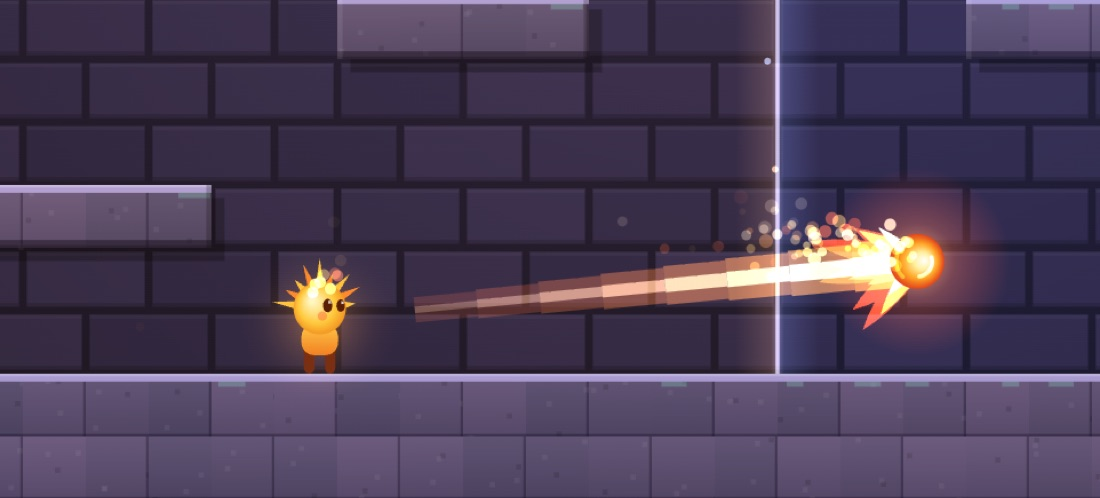
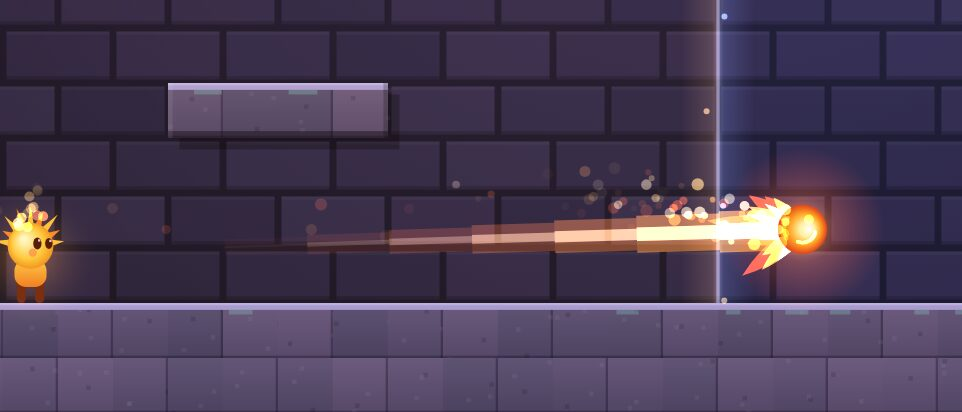
Dodgeball docs: latency re-measured at 36 px/tick on the new court (0, 20, 40 ms match local; 75 ms loses up to 3 ticks near the net, windMax 12 proposed); fresh screenshots, including both screens mid-aim online

diff --git a/docs/dodge-latency.md b/docs/dodge-latency.md
@@ -8,6 +8,56 @@ Branches: `dodge-latency-study` (from `low-gravity`), `dodge-fix-a-ballspeed`, `
 (both from the study branch), `dodge-fix-c-windup` (from `low-gravity`, which has the study).
 **Decision: fix C ships** (`dodge-fix-c-windup`). See "Fix C" and "Decision" below.
 
+## Nov 2026: the new court and a 36 px/tick ball
+
+The court was narrowed to 768 px with one platform per side, and the ball sped up from 24 to
+36 px/tick (HANDOFF section 9, `tools/check-dodge.js` section 3). The study below used the
+old court and ball; its spots now mean: `back wall` both at their back walls (19-tick flight),
+`mid (spawn)` thrower on the spawn behind the platform (17), `near net` thrower at the veil and
+defender at the back wall (9), `spawn to spawn` (15). Re-run with
+`node tools/dodge-latency.js --lat 0,40 --reps 3` and `--lat 0,20,40,75` (one rep):
+
+```
+latency  spot            speed  seen  late  dodge r          latest    thr seen thr gap phantom  thr stop wind thr dly def wu
+local    back wall       36     19    0     r 1-16           267 ms    19       16      0/48     -        0    0       0/0   
+local    mid (spawn)     36     17    0     r 1-14           233 ms    17       14      0/42     -        0    0       0/0   
+local    near net        36     9     0     r 1-5            83 ms     9        5       0/15     -        0    0       0/0   
+local    spawn to spawn  36     15    0     r 1-12           200 ms    15       12      0/36     -        0    0       0/0   
+0 ms     back wall       36     19    0     r 1-16           267 ms    20       17      4/42     6        1    1       0/1   
+0 ms     mid (spawn)     36     17    0     r 1-14           233 ms    18       14      0/37     4        1    1       0/1   
+0 ms     near net        36     9     0     r 1-5            83 ms     10       6       0/15     1        1    1       0/1   
+0 ms     spawn to spawn  36     13    0     r 1-12           200 ms    16       12      2/31     3        1    1       0/1   
+40 ms    back wall       36     18    0     r 1-16           267 ms    25       22      14/40    10       6    6       0/3   
+40 ms    mid (spawn)     36     17    0     r 1-14           233 ms    24       20      10/41    6        6    6       0/3   
+40 ms    near net        36     9     0     r 1-5            83 ms     14       11      3/15     5        6    6       0/1   
+40 ms    spawn to spawn  36     15    0     r 1-12           200 ms    20       18      11/35    5        6    6       0/2   
+20 ms    back wall       36     11    0     r 1-16           267 ms    31       19      6/16     3        4    4       0/4   
+20 ms    mid (spawn)     36     17    0     r 1-14           233 ms    19       17      0/14     2        4    4       1/1   
+20 ms    near net        36     9     0     r 1-5            83 ms     11       7       0/5      2        4    4       1/1   
+20 ms    spawn to spawn  36     15    0     r 1-11           183 ms    17       13      0/11     14       4    4       1/2   
+75 ms    back wall       36     17    1     r 1-15           250 ms    30       27      7/15     10       9    9       0/0   
+75 ms    mid (spawn)     36     16    1     r 1-12           200 ms    27       27      6/12     11       9    9       0/0   
+75 ms    near net        36     6     3     r 1-2            33 ms     21       17      2/2      12       9    9       0/0   
+75 ms    spawn to spawn  36     13    2     r 1-11           183 ms    26       23      9/11     11       9    9       0/0   
+```
+
+- 0, 20 and 40 ms one-way: online matches local at every spot (same latest dodge, and the
+  reaction on the first tick of sight still escapes). The single-rep run had two noisy cells
+  at 0 and 40 ms (one trial each); three reps match local exactly.
+- 75 ms: 1 to 3 ticks worse than local; near the net the latest dodge falls from 5 to 2
+  ticks (83 to 33 ms). The wind-up is capped at `windMax` = 9 ticks (150 ms), and 75 ms
+  one-way needs about 10 plus the queue (`late` 1-3: that much flight is gone before the
+  defender sees the ball). The cap is unchanged from before, but with a 5-tick window each
+  lost tick matters more than it did with a 16-tick one. Smallest change, not made here:
+  `windMax: 12` (200 ms), which covers up to about 95 ms one-way at the cost of a longer
+  hold on the thrower's own screen at high ping. The ping measurement (median of 8 pings,
+  500 ms apart, rounded to ticks) is fine-grained enough: errors of one tick showed up only
+  as the noise above.
+- What the harness can't show is motion against aim (`check-dodge.js` section 3): it scripts
+  flat taps and jumps. Online, the defender's own movement is predicted on their screen and
+  judged by the server from their inputs, and below the cap they see the launch on the same
+  tick as in local play, so the same throws that miss a moving player locally miss online.
+
 ## Harness
 
 `node tools/dodge-latency.js` (about 6 min for all latencies). It starts the real server

diff --git a/HANDOFF.md b/HANDOFF.md
@@ -485,15 +485,19 @@ A competitive mode on one single-screen court, Sol on the left and Luna on the r
   the platform, counts as the bank, can't be touched); dodging (the table above for the old and
   the new court, from `tools/dodge-measure.js`); settling bound and reachability; possession,
   both clocks and stalling loops; scoring; determinism; the online wind-up; aim withholding. `tools/check-dodge-browser.cjs` drives local
-  and online play in Chrome and writes screenshots (see `docs/img/dodgeball/`).
+  and online play in Chrome and writes screenshots (see `docs/img/dodgeball/`); it also checks
+  that the aim arrow shows on a shared screen and is hidden from the other player online
+  (`online-aiming-thrower.jpg` / `online-aiming-watcher.jpg`).
 - **Online: the wind-up (Nov 2026).** Online, a player sees the other's throw about one round
   trip late, so dodging used to be much harder than local (at 100 ms one-way a spawn-to-spawn
   throw was never on screen before it hit). Now a throw waits in the thrower's hand for the
   target's lag before it flies (`windupFor` in `shared/dodge.js`: 1.1 x the server-measured round
   trip plus the target's queued inputs, at most 9 ticks = 150 ms; `D.lag` per target, set by the
   server in the ready freeze). The release reaches the target's screen during the wind-up, so
-  they see the launch on time and the whole 24 px/tick flight: the dodge window equals local up
-  to about 68 ms one-way. During the wind-up the thrower is planted (keys ignored) and the aim is
+  they see the launch on time and the whole flight: the dodge window equals local up to about
+  68 ms one-way (re-measured at 36 px/tick on the new court: identical at 0, 20 and 40 ms; at
+  75 ms the near-net window drops from 5 ticks to 2, and raising `windMax` to 12 would cover it;
+  `docs/dodge-latency.md`). During the wind-up the thrower is planted (keys ignored) and the aim is
   locked, so the launch follows from the state at the release; the shot clock waits.
   - Thrower's screen: the wind-up shows on the release frame (lean back, ball drawn back over the
     shoulder, aim arrow fills, rising hum; `dodge-draw.js` `dodgePose`/`drawCharge`, `audio.js`
